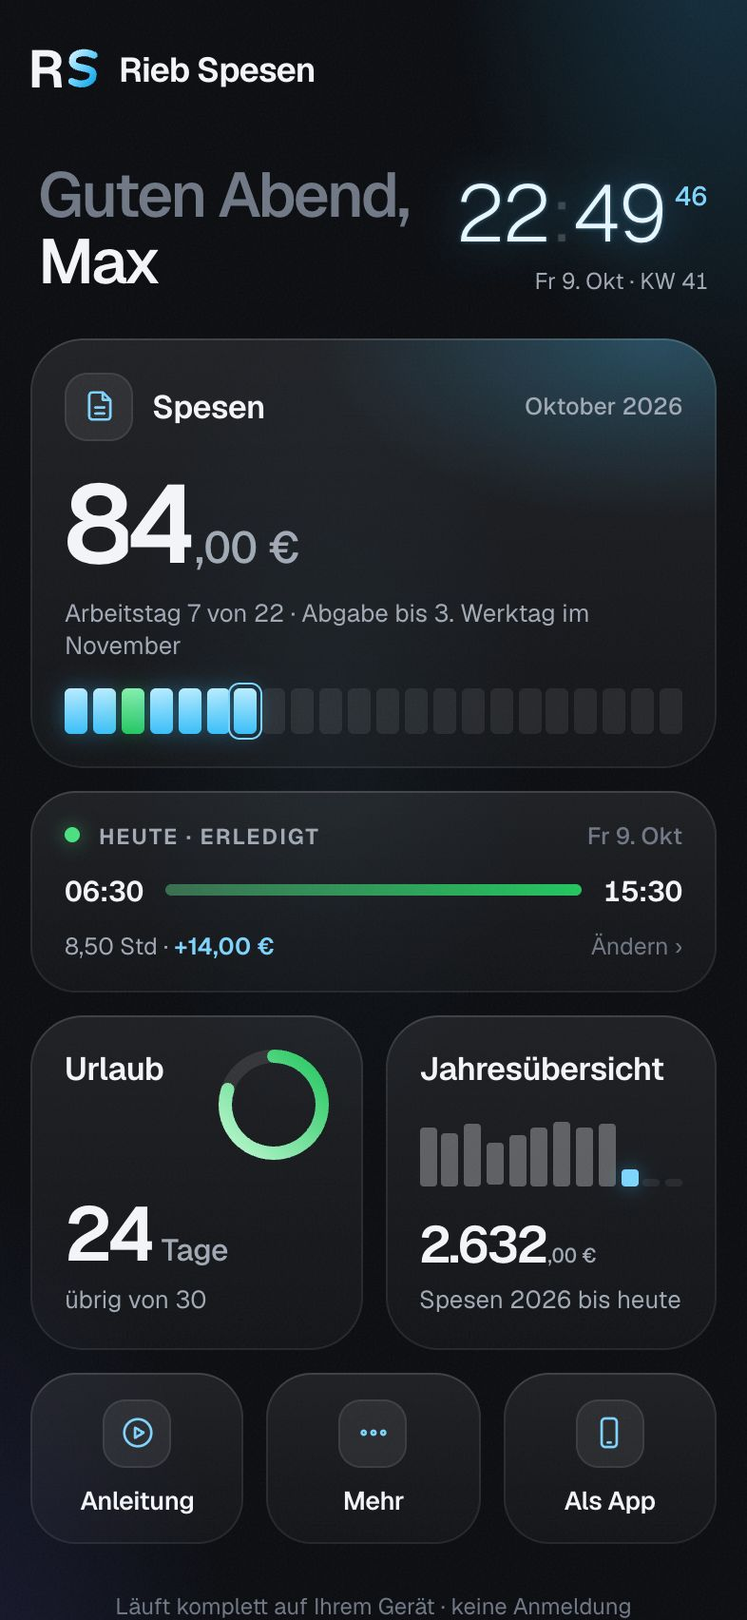
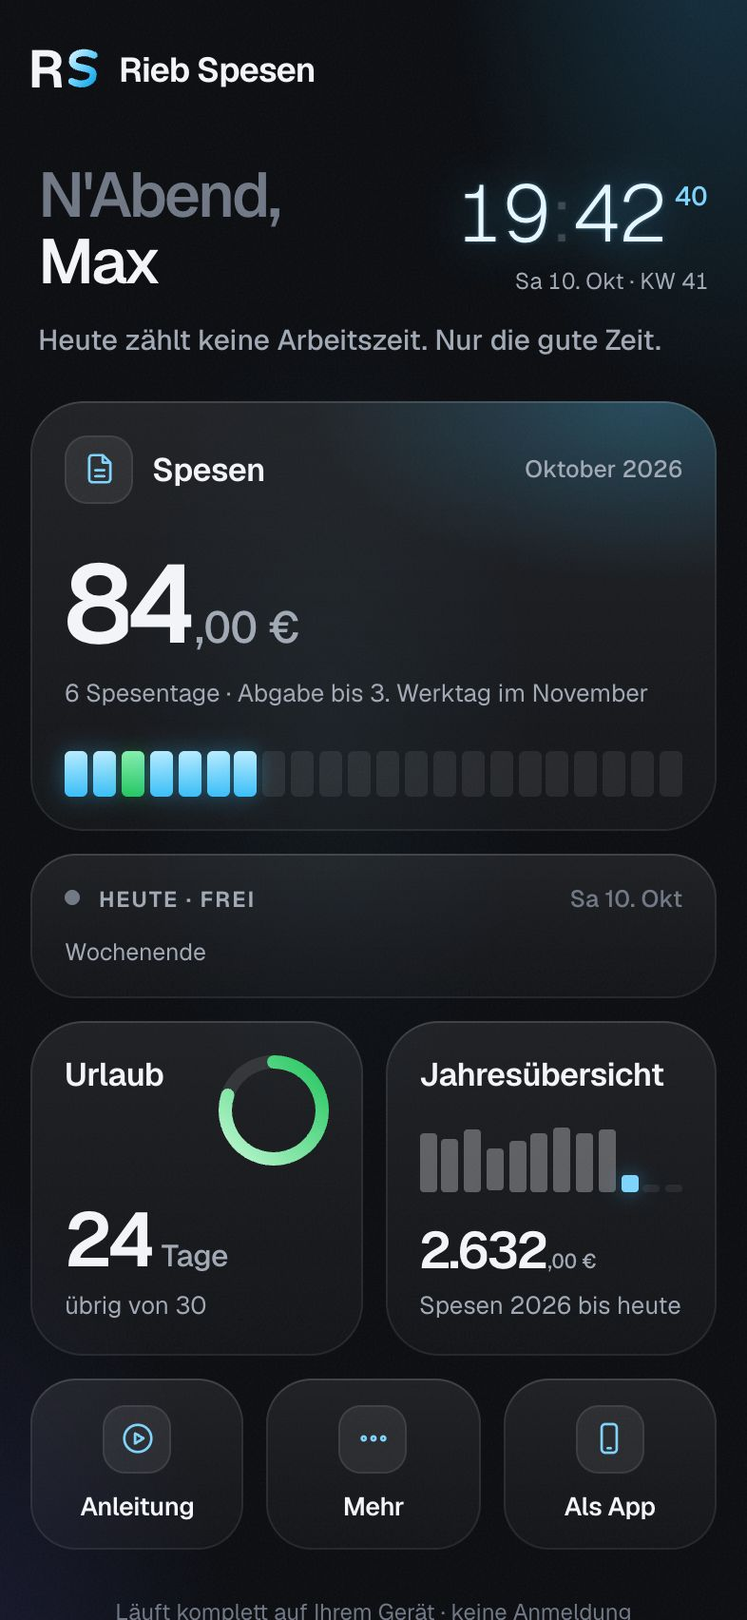
Startseite: wechselnder Gruss und Spruch des Tages - NOCH NICHT VEROEFFENTLICHT
Mirko 10.10.2026 (Entscheidung 57): "gruß an den mitarbeiter, plus kurzer
lustiger spruch oder ein motivationsspruch" - "ein spruch pro tag ... dass
nicht immer nur dieselben kommen" - "gruß ebenfalls wechseln" - "moin meister
kann auch dazu, zu jeder tageszeit".
- Gruss je Tageszeit wechselnd (Moin, Mahlzeit, Servus, Schoenen Feierabend nur
  an Arbeitstagen, "Moin Meister" immer moeglich), darunter eine Zeile mit dem
  Spruch des Tages (rund 245, Liste im Vault "Startseite – Gruß und Sprüche").
- Eigene Reihenfolge je Name; Vorrang aus den eigenen Daten (krank, frei,
  Feiertag, Wochenende, Abgabe Werktag 1-3, morgen Urlaub, Monatsende), dann
  Montag/Freitag, eigene Zahlen, Jahreszeit, allgemein; Innendienst ohne
  "unterwegs". Zaehler je Topf, damit nichts am Wochentag klebt.
- Anleitung Kapitel 3 und Startseiten-Bilder.

Pruefung: gruss-pruefen 43/43 (drei Jahre Tag fuer Tag, eigene Daten,
Bildschirm Handy+PC, hell+dunkel, App = Browser); 24 weitere gruen.

diff --git a/rieb.js b/rieb.js
@@ -369,10 +369,11 @@ function renderStart(opt = {}) {
       <div class="marke">${zeichen('id="kopfZeichen"')}<span class="wortmarke" id="kopfWort">Rieb Spesen</span></div>
     </header>
     <div class="gruss-zeile">
-      <h1 class="gruss"><span class="leise" id="riebGruss">${tageszeitGruss()},</span>${vorname ? "<br>" + esc(vorname) : ""}</h1>
+      <h1 class="gruss"><span class="leise" id="riebGruss">${tagesGruss()},</span>${vorname ? "<br>" + esc(vorname) : ""}</h1>
       <div class="uhr" aria-label="Uhrzeit"><div class="uhr-zeit"><span id="uhrH">--</span><span class="dp">:</span><span id="uhrM">--</span><span class="uhr-s" id="uhrS">--</span></div>
         <div class="uhr-datum">${WT[h.getDay()]} ${h.getDate()}. ${MON_K[h.getMonth()]} · KW ${kw(h)}</div></div>
     </div>
+    <p class="gruss-spruch" id="riebSpruch" data-tag="${heuteIso()}">${esc(tagesSpruchMit(h).text)}</p>
     <div class="bento">
       <button class="kachel k-spesen" data-ziel="spesen" data-heute="1">
         <span class="k-grund"></span>
@@ -1743,13 +1744,248 @@ function inAlteOberflaeche(tab) {
   zeigeTabAlt(tab);
 }
 
+/* ---------------- Gruss und Spruch des Tages (10.10.2026) ----------------
+   Mirko: "der gruß guten morgen, guten mittag, ect, kannst du da individueller
+   sein? gruß an den mitarbeiter, plus kurzer lustiger spruch oder ein
+   motivationsspruch" - "ein spruch pro tag und gerne kreativ sein und neue
+   dazu ausdenken, dass nicht immer nur dieselben kommen" - "gruß ebenfalls
+   wechseln" - "moin meister kann auch dazu, zu jeder tageszeit". Sprueche aus
+   den eigenen Daten: "auch dort ja". Freigegebene Liste:
+   "Startseite – Gruß und Sprüche (Entwurf).md" im Vault.
+   - Ein Spruch pro Tag, den ganzen Tag gleich. Jeder Mitarbeiter hat je Topf
+     eine EIGENE Reihenfolge (gemischt mit seinem Namen als Saat); innerhalb
+     eines Topfes kommt ein Spruch erst wieder, wenn alle durch sind.
+   - Vorrang: krank > frei/Urlaub > Feiertag > Wochenende > Abgabe (Werktag
+     1-3) > morgen Urlaub > letzter Werktag > Montag/Freitag > eigene Zahlen
+     (jeder 5. Tag) > Jahreszeit (jeder 4. Tag) > allgemein.
+   - Laeuft komplett auf dem Geraet, nichts geht an fremde Dienste.
+   - Bewusst draussen: Rauchen/Tabak, Hall, Alkohol, Politik, Religion. */
+const GRUSS = {
+  frueh: ["Guten Morgen", "Früh dran heute", "Schon wach"],
+  morgen: ["Guten Morgen", "Moin", "Einen schönen guten Morgen", "Morgen", "Hallo und guten Morgen", "Servus"],
+  mittag: ["Mahlzeit", "Guten Mittag", "Hallo", "Moin"],
+  nachmittag: ["Guten Tag", "Schönen Nachmittag", "Hallo", "Servus"],
+  abend: ["Guten Abend", "Schönen Feierabend", "Hallo", "N'Abend"],
+  spaet: ["Guten Abend", "Noch fleißig", "Späte Runde"],
+};
+const GRUSS_IMMER = "Moin Meister";   // zu jeder Tageszeit (Mirko)
+const SPRUCH = {
+  krank: ["Gute Besserung – die Spesen laufen nicht weg.", "Heute zählt nur eins: gesund werden.", "Erholen Sie sich gut. Der Rest kann warten.",
+    "Tee, Decke, Ruhe – das ist heute der Plan.", "Gute Besserung – lassen Sie sich Zeit.", "Heute ist Pause angesagt. Ohne schlechtes Gewissen.",
+    "Auskurieren geht vor. Alles andere später.", "Schnell wieder gesund werden – das ist der einzige Auftrag heute."],
+  frei: ["Schönen Urlaub – heute zählt nur die Erholung.", "Frei! Was machen Sie eigentlich hier?", "Heute dürfen die Spesen Pause machen. Sie auch.",
+    "Genießen Sie den Tag – Sie haben ihn sich verdient.", "Kein Wecker, kein Stress – so soll es sein.", "Freier Tag. Das Werkzeug passt solange auf.",
+    "Abschalten erlaubt. Ausdrücklich.", "Heute ist Ihr Tag. Machen Sie was Schönes draus.", "Urlaubsmodus an. Arbeit ist morgen auch noch da.",
+    "Erholung ist auch eine Leistung. Viel Erfolg dabei."],
+  morgenUrlaub: ["Morgen beginnt Ihr Urlaub – nur noch heute!", "Letzter Tag vor dem Urlaub. Endspurt!", "Noch einmal schlafen, dann ist Urlaub.",
+    "Heute alles erledigen, morgen alles vergessen.", "Der Urlaub wartet schon vor der Tür.", "Nur noch ein Tag – dann gehört die Zeit Ihnen."],
+  abgabeOffen: ["Heute ist der {werktag}. Werktag – Ihr Nachweis für {monat} wartet.", "{monat} ist vorbei. Zeit zum Drucken und Unterschreiben.",
+    "Abgabe bis zum 3. Werktag – heute ist der {werktag}.", "Kurz drucken, unterschreiben, abgeben – dann ist {monat} erledigt.",
+    "Der Nachweis für {monat} will raus. Zwei Minuten, versprochen.", "Erinnerung: {monat} abschließen. Ihr Geld freut sich.",
+    "{monat} fertig machen, dann hat der Kopf wieder Platz.", "Ihr {monat}-Nachweis ist fast fertig. Nur noch abschließen."],
+  abgabeErledigt: ["{monat} ist abgegeben. Sauber!", "Nachweis für {monat} erledigt – vorbildlich.", "{monat}: abgehakt. Weiter geht's.",
+    "Pünktlich abgegeben. Daran könnten sich andere ein Beispiel nehmen.", "{monat} erledigt. Jetzt kann der neue Monat kommen.",
+    "Abgabe geschafft. Das fühlt sich gut an, oder?"],
+  monatsende: ["Letzter Arbeitstag im Monat – bald wird abgeschlossen.", "Der Monat ist fast geschafft. Gut gemacht.",
+    "Monatsende! Noch einmal kurz alle Tage prüfen.", "Heute den Monat sauber zu Ende bringen.",
+    "Letzter Tag im Monat. Der nächste Nachweis wartet schon.", "Monat geschafft. Morgen gibt es einen neuen."],
+  zahlenTage: ["Schon {tage} Spesentage diesen Monat. Weiter so!", "{tage} Spesentage bisher – da kommt was zusammen.",
+    "Ihr Monat läuft: {tage} Spesentage und es geht weiter."],
+  zahlenRest: ["Noch {rest} Urlaubstage für {jahr}. Schon verplant?", "{rest} Urlaubstage übrig. Gut geplant ist halb erholt.",
+    "Noch {rest} Tage Urlaub – das Jahr ist noch nicht vorbei."],
+  montag: ["Montag: Der Kaffee muss heute doppelt arbeiten.", "Neue Woche, neues Glück.", "Montag ist auch nur ein Tag. Ein langer, aber ein Tag.",
+    "Die Woche gehört Ihnen. Fangen Sie gut an.", "Montag – der Tag, an dem alle Pläne noch funktionieren.", "Frisch in die Woche. Oder wenigstens wach.",
+    "Montags ist alles möglich. Sogar gute Laune.", "Start in die Woche. Der Rest ergibt sich.", "Ein guter Montag ist ein halber Freitag. Fast.",
+    "Neue Woche, leerer Kalender, volle Energie. Hoffentlich.", "Montag: Kurz durchatmen, dann los.", "Die Woche ist jung. Sie auch.",
+    "Wer montags lächelt, hat den Rest der Woche im Griff.", "Montag? Kein Problem. Das schaffen Sie.", "Auf in die Woche – einer muss sie ja machen."],
+  freitag: ["Freitag! Das Wochenende winkt schon von Weitem.", "Endspurt – das Wochenende ist in Sichtweite.",
+    "Freitag: Der schönste Tag, um Dinge auf Montag zu verschieben.", "Noch einmal Gas geben, dann ist Wochenende.", "Freitag – die Woche hat sich gelohnt.",
+    "Fast geschafft. Das Wochenende hat schon Hunger.", "Freitag ist der Montag, der sich gemacht hat.", "Heute noch, dann gehört die Zeit Ihnen.",
+    "Wochenende in Sicht. Kurs halten!", "Freitag: Gute Laune ist heute Pflicht.", "Die Woche ist im Kasten. Fast.", "Freitag: Die Woche lächelt schon.",
+    "Letzte Etappe der Woche. Gute Fahrt!", "Schönes Wochenende schon mal vorab!", "Freitag. Der Tag mit dem besten Ausblick."],
+  wochenende: ["Wochenende! Die Spesen ruhen. Sie hoffentlich auch.", "Heute ist frei. Das Werkzeug macht auch Pause.", "Schönes Wochenende – genießen Sie es.",
+    "Samstag, Sonntag, Sofa. Klingt nach einem Plan.", "Kurz reinschauen ist erlaubt. Länger bleiben nicht.", "Wochenende ist zum Auftanken da.",
+    "Heute zählt keine Arbeitszeit. Nur die gute Zeit.", "Erholen Sie sich – Montag kommt von ganz allein.", "Freie Tage sind die besten Tage.",
+    "Wochenende. Das Wort allein ist schon schön."],
+  feiertag: ["Feiertag – genießen Sie ihn.", "Heute wird nicht gearbeitet. Ausdrücklich erlaubt.", "Ein freier Tag mitten in der Woche – was für ein Geschenk.",
+    "Feiertag! Die Spesen feiern mit.", "Heute ist frei. Machen Sie das Beste draus.", "Schönen Feiertag – bis morgen!"],
+  dezember: ["Bald ist das Jahr geschafft. Gut gemacht.", "Dezember – ein bisschen Ruhe tut gut.", "Das Jahr biegt auf die Zielgerade ein.",
+    "Plätzchen sind im Dezember ein Grundnahrungsmittel.", "Schöne Dezembertage!", "Noch ein paar Tage, dann ist das Jahr rund.",
+    "Dezember: Zeit, das Jahr sauber abzuschließen.", "Ein gutes Jahr geht zu Ende. Ein neues kommt."],
+  januar: ["Neues Jahr, neue Spesen, neue Chancen.", "Frohes neues Jahr! Auf ein gutes.", "Das Jahr ist noch frisch – genau wie die Vorsätze.",
+    "Januar: Alles auf Anfang.", "Ein neues Jahr voller Arbeitstage. Und hoffentlich voller guter.", "Neues Jahr, neues Urlaubskonto. Schon geplant?"],
+  winter: ["Glatte Straßen, kühler Kopf – fahren Sie vorsichtig.", "Draußen kalt, drinnen warm. Gute Fahrt!", "Winter: Lieber zwei Minuten später als einmal zu schnell.",
+    "Scheiben frei, Kopf frei, los geht's.", "Kalt draußen? Die gute Laune hält warm.", "Bei Glätte gilt: ankommen ist wichtiger als schnell sein.",
+    "Wintertag. Warm anziehen und sicher ankommen.", "Heute schon Eis gekratzt? Respekt."],
+  fruehling: ["Der Frühling kommt – die Laune auch.", "Mehr Licht, mehr Energie. Endlich.", "Frühling: Fenster auf, durchatmen, los.",
+    "Die Tage werden länger. Die Feierabende gefühlt auch.", "Alles blüht. Sie hoffentlich auch.", "Frühling: Die Laune wächst mit."],
+  sommer: ["Heiß heute? Genug trinken nicht vergessen!", "Sommer: Wasserflasche einpacken, gute Laune auch.", "Sonne draußen, Sonne drinnen.",
+    "Bei Hitze gilt: trinken, trinken, trinken.", "Sommerzeit ist Urlaubszeit. Schon geplant?", "Heute ist ein guter Tag für ein Eis nach Feierabend.",
+    "Sommer, Sonne, Spesen.", "Klimaanlage an, Laune hoch.", "Lange Tage, laue Abende – genießen Sie sie.", "Bei Hitze ruhig ein Gang zurück. Ankommen zählt."],
+  herbst: ["Der Herbst ist da – gemütlich wird's.", "Herbst: Bunte Blätter, klare Köpfe.", "Es wird früher dunkel. Licht an, Augen auf.",
+    "Herbstwetter? Gute Laune hat kein Wetter.", "Die Tage werden kürzer. Die To-do-Liste hoffentlich auch.", "Nebel am Morgen? Langsam fahren, sicher ankommen."],
+  unterwegs: ["Gute Fahrt heute – kommen Sie heil an.", "Ankommen ist wichtiger als schnell sein.", "Wer gelassen fährt, kommt entspannt an.",
+    "Die Straße gehört heute Ihnen. Teilweise.", "Tank voll, Kopf klar, los geht's.", "Jeder Kilometer zählt – auch für die Spesen.", "Gute Fahrt und freie Straßen!",
+    "Stau ist nur eine längere Pause mit Aussicht.", "Navi an, Musik an, gute Laune an.", "Unterwegs zu Hause – heute wieder.",
+    "Pausen machen ist auch Arbeit. Wichtige sogar.", "Heute wird gefahren, morgen gerechnet. Oder umgekehrt.", "Sicher hin, sicher zurück. Mehr braucht es nicht.",
+    "Die beste Abkürzung ist die, die man kennt.", "Wer unterwegs lächelt, hat mehr vom Tag.", "Rückspiegel checken, Laune checken, losfahren.", "Gute Strecke heute!",
+    "Unterwegs gilt: lieber eine Pause zu viel als eine zu wenig.", "Freie Fahrt wünscht das Werkzeug.", "Viele Kilometer, viele Geschichten. Schöne Tour heute.",
+    "Rote Ampeln sind die Kaffeepausen der Straße.", "Wer viel unterwegs ist, kennt die besten Bäcker.", "Der Tag ist eine Strecke. Schritt für Schritt.",
+    "Fahren Sie vorsichtig – die anderen tun es nicht immer.", "Heute schon die schönste Strecke gefunden?"],
+  allgemein: [
+    /* Motivation */
+    "Wer früh startet, hat mehr vom Feierabend.", "Kleine Schritte, große Wirkung.", "Heute ist ein guter Tag für einen guten Tag.",
+    "Gute Arbeit spricht für sich. Heute wieder.", "Ein Tag nach dem anderen. Heute ist dran.", "Ordnung im Nachweis, Ruhe im Kopf.",
+    "Läuft. Und wenn nicht, dann gleich.", "Machen ist wie wollen, nur krasser.", "Wer anfängt, ist schon halb fertig.", "Jeder Tag ist eine neue Chance. Heute auch.",
+    "Erst die Arbeit, dann der Feierabend. Gute Reihenfolge.", "Sie schaffen das. Wie immer.", "Konzentriert anfangen, entspannt aufhören.",
+    "Gut geplant ist halb geschafft.", "Was heute erledigt ist, stört morgen nicht.", "Die beste Zeit zum Anfangen ist jetzt.",
+    "Ein Lächeln kostet nichts und bringt viel.", "Heute wird ein guter Tag. Das ist beschlossen.", "Ruhe bewahren, Kurs halten.",
+    "Nicht perfekt, aber erledigt – auch eine Leistung.", "Der Tag hat 24 Stunden. Ein paar davon gehören Ihnen.", "Wer dranbleibt, kommt an.",
+    "Heute schon etwas geschafft? Dann ist der Tag schon gut.", "Schritt für Schritt geht's auch bergauf.", "Mit guter Laune geht alles leichter. Fast alles.",
+    "Fleiß zahlt sich aus. Manchmal sogar in Spesen.", "Machen Sie heute etwas, worauf Sie morgen stolz sind.", "Auf sich selbst kann man sich verlassen.",
+    "Wer Spaß an der Arbeit hat, arbeitet nicht. So heißt es.", "Ein klarer Kopf ist das beste Werkzeug.", "Gut gemacht ist besser als gut gemeint.",
+    "Ein gutes Team macht jeden Tag leichter.", "Danke für Ihren Einsatz. Ehrlich.", "Heute ist Ihr Tag. Zumindest ein Teil davon.",
+    "Durchatmen. Weitermachen. Feierabend genießen.", "Wer Ziele hat, findet Wege.", "Jede Strecke beginnt mit dem ersten Meter.", "Was zählt, ist das Ankommen.",
+    "Gelassenheit ist eine Superkraft.", "Erfolg ist die Summe kleiner Tage. Wie heute.",
+    /* zum Schmunzeln */
+    "Kaffee ist kein Getränk. Kaffee ist ein Arbeitsmittel.", "Die Spesen rechnen sich von selbst. Den Rest erledigen Sie.",
+    "Plan für heute: alles schaffen. Plan B: das Wichtigste.", "Multitasking heißt: drei Dinge gleichzeitig vergessen.", "Wer Ordnung hält, ist nur zu faul zum Suchen.",
+    "Das Leben ist zu kurz für schlechten Kaffee.", "Heute schon jemanden angelächelt? Der Spiegel zählt auch.",
+    "Gute Laune ist ansteckend. Heute bitte großzügig verteilen.", "Ein aufgeräumter Schreibtisch ist ein Zeichen für einen vollen Schrank.",
+    "Wer Zeit sparen will, trägt seine Zeiten einmal ein. Erledigt.", "Optimismus: Ein Brötchen mitnehmen, falls es länger dauert.",
+    "Der frühe Vogel fängt den Wurm. Der ausgeschlafene den guten Parkplatz.", "Heute wird nicht gemeckert. Höchstens ein bisschen.",
+    "Pünktlichkeit ist die Höflichkeit der Spesen.", "Wer viel arbeitet, darf auch viel Kuchen essen. Das ist Gesetz. Fast.",
+    "Der Papierkram erledigt sich nicht von selbst. Hier schon.", "Ich bin nicht faul, ich bin im Energiesparmodus.",
+    "Der Tag beginnt mit einem Lächeln. Oder mit Kaffee. Beides geht.", "Schreibtisch, Lenkrad oder Werkbank – Hauptsache, die Laune stimmt.",
+    "Feierabend ist auch nur ein anderes Wort für Ziel.", "Arbeit ist das, was zwischen zwei Kaffees passiert.", "Heute schon gelacht? Hier, das zählt auch.",
+    "Man kann nicht alles haben. Wo sollte man es auch hinstellen?", "Wer lächelt, statt zu toben, ist immer der Stärkere.", "Keine Panik. Erst mal einen Kaffee.",
+    "Der Montag hat angerufen. Er kommt nächste Woche wieder.", "Abwarten und Tee trinken. Oder Kaffee. Hauptsache abwarten.", "Gute Nachricht: Der Tag ist noch jung.",
+    "Heute ist ein guter Tag, um gute Laune zu haben. Gestern auch schon.", "Wer Witze über Spesen macht, hat sie meistens schon abgegeben.",
+    "Ein voller Bauch arbeitet gern. Erst Frühstück, dann Welt retten.", "Mittagspause ist die wichtigste Besprechung des Tages.",
+    "Heute bleibt alles im grünen Bereich. Ehrenwort.", "Wenn das Leben Ihnen Zitronen gibt: Limo draus machen und weiter.",
+    "Wer immer pünktlich ist, hat irgendwann viel Zeit zum Warten.", "Ordnung ist das halbe Leben. Die andere Hälfte ist Feierabend.",
+    "Der Kalender sagt Werktag. Die Laune sagt: egal, gut drauf.", "Heute läuft's wie geschmiert. Hoffentlich.", "Glück ist, wenn der Nachweis auf Anhieb stimmt.",
+    "Wer zuletzt lacht, hat den Witz erst später verstanden. Auch gut."],
+};
+/* Gemischte Reihenfolge je Mitarbeiter und Topf: Saat aus Name + Topf,
+   mulberry32, Fisher-Yates. Stabil, solange der Name gleich bleibt. */
+function spruchSaat(text) { let h = 2166136261; for (let i = 0; i < text.length; i++) { h ^= text.charCodeAt(i); h = Math.imul(h, 16777619); } return h >>> 0; }
+function spruchReihe(n, saat) {
+  let a = saat || 1; const zufall = () => { a |= 0; a = (a + 0x6D2B79F5) | 0; let t = Math.imul(a ^ (a >>> 15), 1 | a); t = (t + Math.imul(t ^ (t >>> 7), 61 | t)) ^ t; return ((t ^ (t >>> 14)) >>> 0) / 4294967296; };
+  const r = [...Array(n).keys()];
+  for (let i = n - 1; i > 0; i--) { const j = Math.floor(zufall() * (i + 1)); [r[i], r[j]] = [r[j], r[i]]; }
+  return r;
+}
+/* Element Nr. "zaehler" aus einem Topf - fuer diesen Mitarbeiter gemischt
+   (feste Reihenfolge je Name und Topf).
+   Der Zaehler rueckt nach jedem Durchlauf um EINEN Platz weiter
+   (zaehler + Durchlauf-Nr.). Ohne das haengt alles am Wochentag, sobald die
+   Topfgroesse durch 7 teilbar ist - gemessen 10.10.2026: Gruss-Topf 7 ->
+   Montag immer "Morgen", Mittwoch immer "Moin Meister"; Spruch-Topf fuer
+   unterwegs 105 -> an den allgemeinen Tagen (Di-Do) nur 45 von 105 je sichtbar.
+   So: jeder Eintrag kommt dran, derselbe fruehestens nach Topfgroesse - 1 Tagen. */
+function ausTopf(liste, topf, zaehler) {
+  const name = (config.name || "").trim().toLowerCase(), n = liste.length;
+  const c = zaehler + Math.floor(zaehler / n), pos = ((c % n) + n) % n;
+  return liste[spruchReihe(n, spruchSaat(name + "|" + topf))[pos]];
+}
+/* Tage seit 1.1.1970 nach ORTSZEIT - der Tag wechselt um Mitternacht des Geraets */
+const tagNummer = (d) => Math.floor(Date.UTC(d.getFullYear(), d.getMonth(), d.getDate()) / 864e5);
+/* Wie viele Tage bis einschliesslich Tag n fielen auf diese Wochentage
+   (0 = So … 6 = Sa)? Zaehler fuer Toepfe, die nur an bestimmten Wochentagen
+   drankommen: Jeder dieser Tage ist der naechste Platz im Topf. Mit dem
+   Kalendertag als Zaehler blieben Plaetze dauerhaft ungenutzt (gemessen
+   10.10.2026: 24 von 105 Spruechen in drei Jahren nie). 1.1.1970 = Do (4). */
+function wtZaehler(n, wochentage) {
+  const voll = Math.floor((n + 1) / 7) * wochentage.length;
+  let rest = 0; for (let m = Math.floor((n + 1) / 7) * 7; m <= n; m++) if (wochentage.includes((m + 4) % 7)) rest++;
+  return voll + rest;
+}
+/* Die allgemeinen Tage nach Kalender: Di-Do, kein Zahlen-Tag (jeder 5.), kein
+   Jahreszeit-Tag (jeder 4., Rest 1). Zaehlt nur DIESE Tage - sonst trafen die
+   Zahlen-Tage in jedem Durchlauf dieselben Plaetze (Durchlauf 245 Tage, durch
+   5 teilbar) und 25 Sprueche kamen nie (gemessen 10.10.2026). Muster wiederholt
+   sich alle 140 Tage (7 * 5 * 4). */
+const diDo = (m) => [2, 3, 4].includes((m + 4) % 7);
+const istAllgemeinTag = (m) => diDo(m) && m % 5 !== 0 && m % 4 !== 1;
+/* Jahreszeit-Tage: jeder 4. (Rest 1) - und die Zahlen-Tage (jeder 5.), wenn
+   die eigenen Zahlen nichts hergeben (Monatsanfang). Eigener Zaehler, damit
+   zwei solche Tage nie denselben Platz bekommen (gemessen 10.10.2026: Do/Di
+   mit fuenf Tagen Abstand, derselbe Spruch). */
+const istJahreszeitTag = (m) => diDo(m) && (m % 4 === 1 || m % 5 === 0);
+const je140 = {};
+function kalenderZaehler(n, art, gilt) {
+  if (je140[art] === undefined) { je140[art] = 0; for (let m = 0; m < 140; m++) if (gilt(m)) je140[art]++; }
+  const block = Math.floor((n + 1) / 140);
+  let rest = 0; for (let m = block * 140; m <= n; m++) if (gilt(m)) rest++;
+  return block * je140[art] + rest;
+}
+function tagesGruss(d = new Date()) {
+  const s = d.getHours();
+  const slot = s < 5 ? "frueh" : s < 11 ? "morgen" : s < 14 ? "mittag" : s < 18 ? "nachmittag" : s < 22 ? "abend" : "spaet";
+  let liste = GRUSS[slot].concat(GRUSS_IMMER);
+  /* "Schoenen Feierabend" nur an einem Arbeitstag */
+  if (slot === "abend") { const w = tagInfo(d, feiertage(d.getFullYear(), config.bundesland)); if (w.art === "ruhe" || w.art === "status") liste = liste.filter((g) => g !== "Schönen Feierabend"); }
+  return ausTopf(liste, "gruss-" + slot, tagNummer(d));
+}
+/* Der Spruch des Tages und aus welchem Topf er kommt */
+function tagesSpruchMit(d = new Date()) {
+  const J = d.getFullYear(), M = d.getMonth() + 1, n = tagNummer(d), wd = d.getDay();
+  const map = feiertage(J, config.bundesland), heute = tagInfo(d, map);
+  const morgen = new Date(J, M - 1, d.getDate() + 1);
+  const vorM = M === 1 ? 12 : M - 1, vorJ = M === 1 ? J - 1 : J;
+  const info = monatInfo(J, M);
+  const tagNr = info.arbeit.findIndex((t) => t.iso === isoVon(d)) + 1;              // Werktag Nr. dieses Datums (monatInfo zaehlt ab dem echten Heute)
+  const werte = { monat: MON[vorM - 1], werktag: String(tagNr), tage: String(info.spesentage), rest: "", jahr: String(J) };
+  const nimm = (topf, zaehler = n) => ({ topf, text: ausTopf(SPRUCH[topf], topf, zaehler).replace(/\{(\w+)\}/g, (_, k) => werte[k] || "") });
+  if (heute.art === "status" && heute.status === "krank") return nimm("krank");
+  if (heute.art === "status") return nimm("frei");                                   // Urlaub, Sonderurlaub, Elternzeit, Frei
+  if (heute.art === "ruhe" && heute.fei) return nimm("feiertag");
+  if (wd === 0 || wd === 6) return nimm("wochenende", wtZaehler(n, [0, 6]));
+  /* Werktag 1-3: Abgabe des Vormonats - nur, wenn es dort Spesentage gab
+     (sonst bekaeme ein neuer Kollege im ersten Monat eine Erinnerung) */
+  if (tagNr >= 1 && tagNr <= 3) {
+    let vorTage = 0; try { vorTage = computeMonth(vorJ, vorM).workdays || 0; } catch (e) { vorTage = 0; }
+    if (vorTage > 0) return nimm(localStorage.getItem(monthSubmittedKey(vorJ, vorM)) ? "abgabeErledigt" : "abgabeOffen");
+  }
+  if (((overrides[isoVon(morgen)] || {}).status) === "urlaub") return nimm("morgenUrlaub");
+  if (tagNr && tagNr === info.arbeit.length) return nimm("monatsende");
+  const woche = Math.floor((n + 3) / 7);                                              // Wochen-Zaehler (Montag bis Sonntag)
+  if (wd === 1) return nimm("montag", woche);
+  if (wd === 5) return nimm("freitag", woche);
+  /* jeder 5. Tag: die eigenen Zahlen - Resturlaub nur ab September */
+  if (n % 5 === 0) {
+    const rest = urlaubRestFuer(J);
+    if (M >= 9 && rest > 0 && n % 10 === 0) { werte.rest = String(rest).replace(".", ","); return nimm("zahlenRest", Math.floor(n / 10)); }
+    if (info.spesentage >= 3) return nimm("zahlenTage", Math.floor(n / 5));
+  }
+  /* jeder 4. Tag - und ein Zahlen-Tag ohne passende Zahlen: Jahreszeit bzw.
+     Dezember/Januar */
+  if (n % 4 === 1 || n % 5 === 0) {
+    if (M === 12 && n % 8 === 1) return nimm("dezember", Math.floor(n / 8));
+    if (M === 1 && n % 8 === 1) return nimm("januar", Math.floor(n / 8));
+    return nimm(M <= 2 || M === 12 ? "winter" : M <= 5 ? "fruehling" : M <= 8 ? "sommer" : "herbst", kalenderZaehler(n, "jz", istJahreszeitTag));
+  }
+  /* allgemein - Fahrer und Monteur Aussendienst dazu die fuer unterwegs.
+     Zaehler: nur die allgemeinen Tage nach Kalender */
+  const unterwegs = ["fahrer", "monteur-aussen"].includes(config.mitarbeitertyp);
+  const zaehler = kalenderZaehler(n, "allg", istAllgemeinTag);
+  if (unterwegs) { SPRUCH.allgemeinUnterwegs = SPRUCH.allgemeinUnterwegs || SPRUCH.allgemein.concat(SPRUCH.unterwegs); return nimm("allgemeinUnterwegs", zaehler); }
+  return nimm("allgemein", zaehler);
+}
+/* Fuer die Pruefung: Gruss und Spruch fuer ein beliebiges Datum/Uhrzeit */
+window.riebSpruchToepfe = SPRUCH;
+window.riebGrussSpruch = (zeit) => { const d = zeit ? new Date(zeit) : new Date(); const s = tagesSpruchMit(d); return { gruss: tagesGruss(d), spruch: s.text, topf: s.topf }; };
+
 /* ---------------- Live: Uhr und laufender Tag ---------------- */
 let letzterZustand = null;
 function uhrStellen() {
   const d = new Date();
   const H = document.getElementById("uhrH"); if (!H) return;
   H.textContent = zwei(d.getHours()); document.getElementById("uhrM").textContent = zwei(d.getMinutes()); document.getElementById("uhrS").textContent = zwei(d.getSeconds());
-  const g = document.getElementById("riebGruss"); if (g) g.textContent = tageszeitGruss() + ",";
+  const g = document.getElementById("riebGruss"); if (g) g.textContent = tagesGruss(d) + ",";
+  /* Neuer Tag, waehrend die Seite offen ist (ueber Mitternacht): neuer Spruch */
+  const sp = document.getElementById("riebSpruch"); if (sp && sp.dataset.tag !== isoVon(d)) { sp.textContent = tagesSpruchMit(d).text; sp.dataset.tag = isoVon(d); }
 }
 function takt() {
   if (!aktuell) return;

diff --git a/rieb.css b/rieb.css
@@ -86,6 +86,8 @@ html:not(.rieb-bereit) #splashScreen{display:none}
 #rieb .gruss-zeile{display:flex;align-items:flex-end;justify-content:space-between;gap:10px;margin:28px 4px 22px}
 #rieb .gruss{font-size:33px;line-height:1.06;letter-spacing:-.04em;font-weight:560;margin:0}
 #rieb .gruss .leise{color:var(--n-text3)}
+/* Spruch des Tages unter dem Gruss (10.10.2026) - eine ruhige Zeile */
+#rieb .gruss-spruch{margin:-10px 4px 22px;font-size:15px;line-height:1.4;font-weight:500;color:var(--n-text2);max-width:36em;text-wrap:pretty}
 #rieb .uhr{text-align:right;flex:none}
 #rieb .uhr-zeit{display:flex;align-items:flex-start;justify-content:flex-end;font-size:42px;font-weight:260;letter-spacing:-.02em;line-height:.9;
   font-variant-numeric:tabular-nums;color:#E6F6FF;text-shadow:0 0 22px rgba(56,189,248,.5),0 0 2px rgba(125,211,252,.4)}
@@ -635,6 +637,7 @@ html[data-vt="einstieg"]::view-transition-group(*){animation-duration:.95s}
 #rieb .marke .zeichen{width:34px;height:34px}
 #rieb .gruss-zeile{margin:50px 4px 38px}
 #rieb .gruss{font-size:60px}
+#rieb .gruss-spruch{margin:-22px 4px 38px;font-size:17px}
 #rieb .uhr-zeit{font-size:84px}
 #rieb .uhr-s{font-size:22px;margin-top:6px;min-width:28px}
 #rieb .uhr-datum{font-size:14px;margin-top:12px}

diff --git a/Anleitung.html b/Anleitung.html
@@ -192,6 +192,7 @@ html.pc .bilder-paar{grid-template-columns:1fr 1fr;align-items:start}
 <section class="karte kap" id="startseite">
   <h2><span class="nr">3</span>Die Startseite</h2>
   <ul>
+    <li><b>Ganz oben</b> – Ihr Gruß und darunter ein Spruch des Tages, jeden Tag ein anderer. Passt etwas zu Ihren Einträgen – Urlaub, Abgabe, Monatsende –, nimmt der Spruch darauf Bezug.</li>
     <li><b>Spesen</b> – der Betrag des laufenden Monats, der wievielte Arbeitstag heute ist und bis wann abgegeben wird. Antippen öffnet den Monat.</li>
     <li><b>Heute</b> – ob Ihr Tag läuft und mit welchen Zeiten. Antippen öffnet den heutigen Tag zum Ändern.</li>
     <li><b>Urlaub</b> – wie viele Urlaubstage Ihnen noch bleiben.</li>
